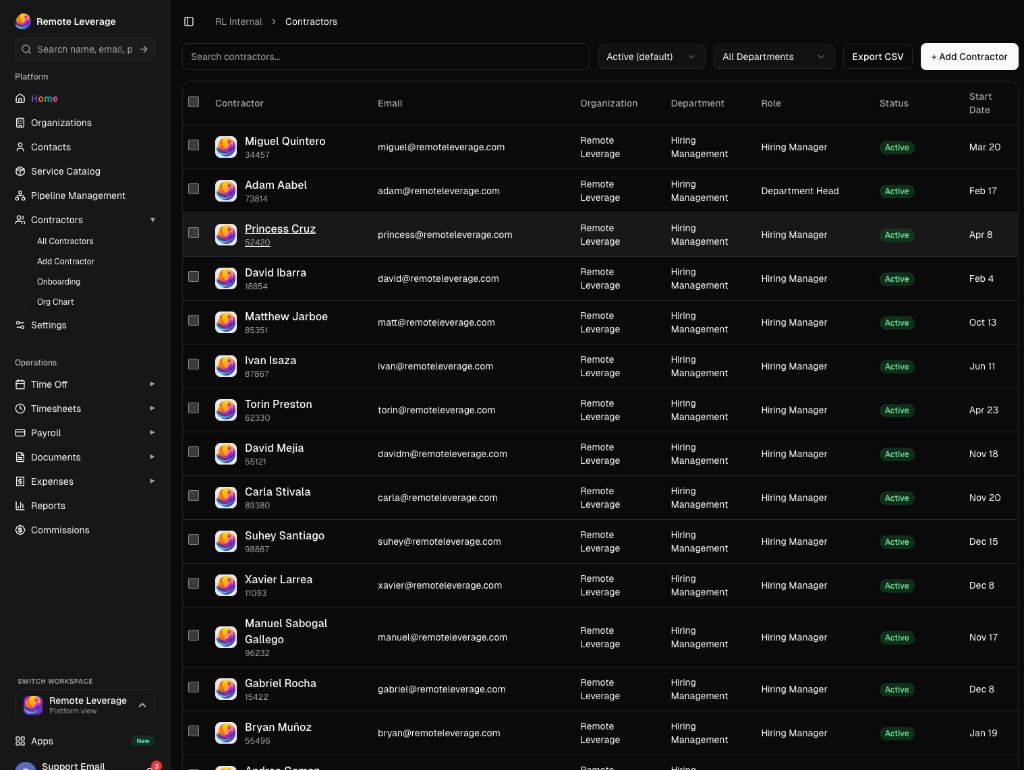
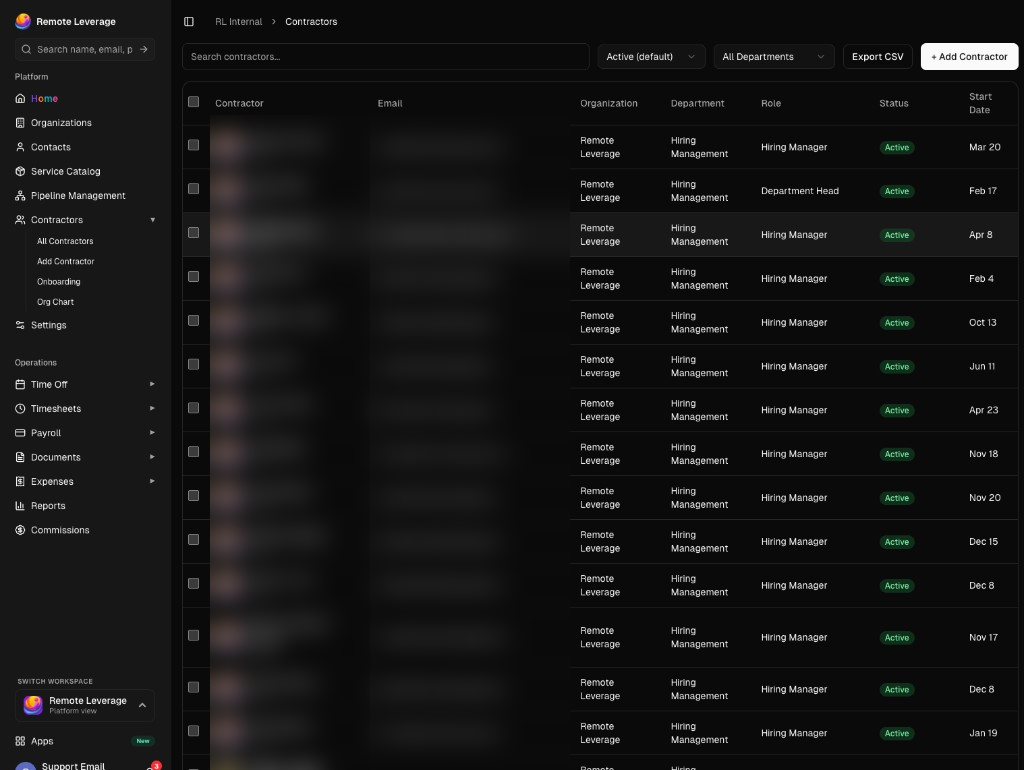
Blur contractor names, add click-to-zoom lightbox, remove Aerobridge references
Made-with: Cursor

diff --git a/script.js b/script.js
@@ -22,10 +22,42 @@ const observer = new IntersectionObserver(
 );
 
 document.querySelectorAll(
-  '.project-card, .timeline-item, .skill-group, .detail-card, .contact-card'
+  '.project-card, .timeline-item, .skill-group, .contact-card, .gallery-item'
 ).forEach(el => {
   el.style.opacity = '0';
   el.style.transform = 'translateY(24px)';
   el.style.transition = 'opacity 0.6s ease, transform 0.6s ease';
   observer.observe(el);
+});
+
+// Lightbox
+const lightbox = document.createElement('div');
+lightbox.id = 'lightbox';
+lightbox.innerHTML = '<img /><span class="lightbox-close">&times;</span>';
+document.body.appendChild(lightbox);
+
+const lbImg = lightbox.querySelector('img');
+const lbClose = lightbox.querySelector('.lightbox-close');
+
+document.querySelectorAll('.gallery-item img, .project-image img').forEach(img => {
+  img.style.cursor = 'zoom-in';
+  img.addEventListener('click', () => {
+    lbImg.src = img.src;
+    lbImg.alt = img.alt;
+    lightbox.classList.add('open');
+    document.body.style.overflow = 'hidden';
+  });
+});
+
+function closeLightbox() {
+  lightbox.classList.remove('open');
+  document.body.style.overflow = '';
+}
+
+lbClose.addEventListener('click', closeLightbox);
+lightbox.addEventListener('click', e => {
+  if (e.target === lightbox) closeLightbox();
+});
+document.addEventListener('keydown', e => {
+  if (e.key === 'Escape') closeLightbox();
 });

diff --git a/style.css b/style.css
@@ -466,3 +466,31 @@ body {
   .projects-grid { grid-template-columns: 1fr; }
   .project-highlights { grid-template-columns: 1fr; }
 }
+
+/* LIGHTBOX */
+#lightbox {
+  position: fixed; inset: 0;
+  z-index: 1000;
+  background: rgba(0,0,0,0.92);
+  display: flex; align-items: center; justify-content: center;
+  opacity: 0; pointer-events: none;
+  transition: opacity 0.3s;
+  padding: 24px;
+}
+#lightbox.open { opacity: 1; pointer-events: auto; }
+#lightbox img {
+  max-width: 95vw; max-height: 90vh;
+  border-radius: 8px;
+  box-shadow: 0 20px 60px rgba(0,0,0,0.5);
+  transform: scale(0.95);
+  transition: transform 0.3s;
+}
+#lightbox.open img { transform: scale(1); }
+.lightbox-close {
+  position: absolute; top: 16px; right: 24px;
+  font-size: 2rem; color: #fff;
+  cursor: pointer; opacity: 0.7;
+  transition: opacity 0.2s;
+  line-height: 1;
+}
+.lightbox-close:hover { opacity: 1; }

diff --git a/index.html b/index.html
@@ -273,10 +273,10 @@
           <h3>Phone</h3>
           <p>+56 948 930 637</p>
         </a>
-        <a href="https://github.com/Aerobridgeadmin" target="_blank" class="contact-card">
+        <a href="https://github.com/SebastianSteele" target="_blank" class="contact-card">
           <div class="contact-icon">&#128187;</div>
           <h3>GitHub</h3>
-          <p>GitHub Profile</p>
+          <p>SebastianSteele</p>
         </a>
       </div>
     </div>
